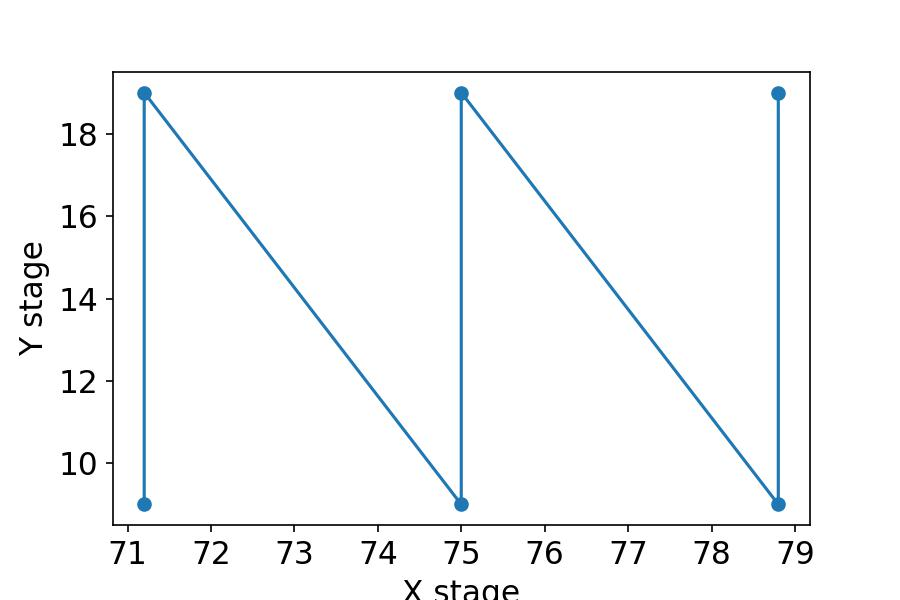
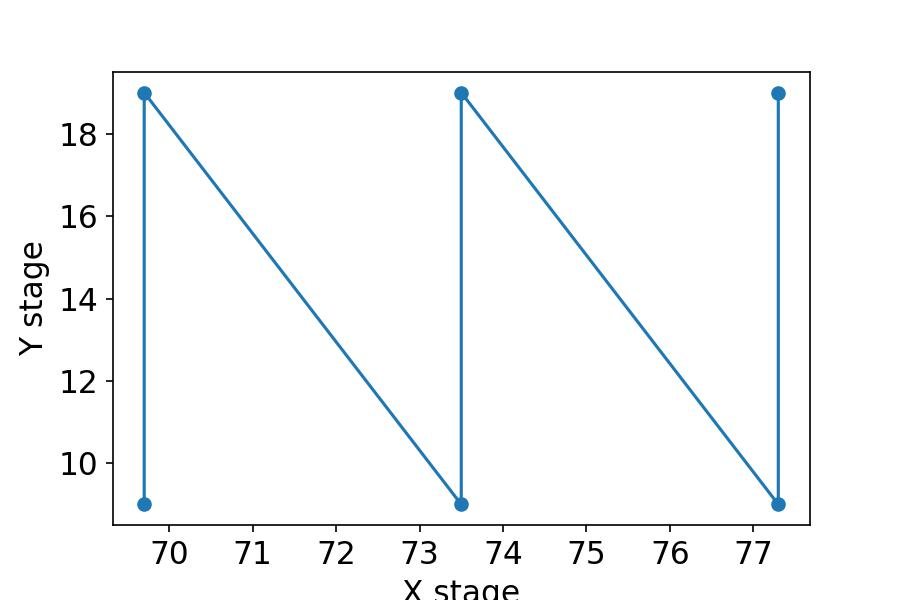
update on 9/13/2024

Changed region(s): [[0.1244, 0.9, 0.9022, 0.96]]

diff --git a/ThreadWeaver_ART.py b/ThreadWeaver_ART.py
@@ -1081,6 +1081,18 @@ class WeaverThread(QThread):
         # if interrupt == 'Stop':
         #     message = 'user stopped acquisition...'
         #     return message
+        
+        # go to start Y
+        self.ui.YPosition.setValue(self.ui.SliceY.value())
+        an_action = AODOAction('Ymove2')
+        self.AODOQueue.put(an_action)
+        self.StagebackQueue.get()
+        ##################################################
+        interrupt = self.check_interrupt()
+        if interrupt == 'Stop':
+            message = 'user stopped acquisition...'
+            return message
+        # ########################################################
         ########################################################
         # go to start X
         self.ui.XPosition.setValue(self.ui.SliceX.value())
@@ -1093,28 +1105,18 @@ class WeaverThread(QThread):
             message = 'user stopped acquisition...'
             return message
         ########################################################
-        # go to start Y
-        self.ui.YPosition.setValue(self.ui.SliceY.value())
-        an_action = AODOAction('Ymove2')
-        self.AODOQueue.put(an_action)
-        self.StagebackQueue.get()
-        ##################################################
-        interrupt = self.check_interrupt()
-        if interrupt == 'Stop':
-            message = 'user stopped acquisition...'
-            return message
-        ########################################################
-        # go to start Z
-        self.ui.ZPosition.setValue(start_height)
-        an_action = AODOAction('Zmove2')
-        self.AODOQueue.put(an_action)
-        self.StagebackQueue.get()
-        ##################################################
-        interrupt = self.check_interrupt()
-        if interrupt == 'Stop':
-            message = 'user stopped acquisition...'
-            return message
-        ########################################################
+        
+        # # go to start Z
+        # self.ui.ZPosition.setValue(start_height)
+        # an_action = AODOAction('Zmove2')
+        # self.AODOQueue.put(an_action)
+        # self.StagebackQueue.get()
+        # ##################################################
+        # interrupt = self.check_interrupt()
+        # if interrupt == 'Stop':
+        #     message = 'user stopped acquisition...'
+        #     return message
+        # ########################################################
         # slicing
         # start vibratome
         self.ui.VibEnabled.setText('Stop Vibratome')
@@ -1123,6 +1125,12 @@ class WeaverThread(QThread):
         self.AODOQueue.put(an_action)
         self.StagebackQueue.get()
         for ii in range(cuts):
+            # Z stage move up
+            self.ui.ZPosition.setValue(start_height+self.ui.SliceZDepth.value()/1000.0*ii)
+            an_action = AODOAction('Zmove2')
+            self.AODOQueue.put(an_action)
+            self.StagebackQueue.get()
+            # Move Y stage slowly to cut
             if self.ui.SliceDir.isChecked():
                 sign = 1
             else:
@@ -1145,7 +1153,7 @@ class WeaverThread(QThread):
                 self.AODOQueue.put(an_action)
                 self.StagebackQueue.get()
                 return message
-            
+            # move Y stage back to position
             self.ui.YPosition.setValue(self.ui.SliceY.value())
             an_action = AODOAction('Ymove2')
             self.AODOQueue.put(an_action)
@@ -1162,10 +1170,7 @@ class WeaverThread(QThread):
                 self.StagebackQueue.get()
                 return message
             
-            self.ui.ZPosition.setValue(self.ui.ZPosition.value()+self.ui.SliceZDepth.value()/1000.0)
-            an_action = AODOAction('Zmove2')
-            self.AODOQueue.put(an_action)
-            self.StagebackQueue.get()
+
 
         # stop vibratome
         self.ui.VibEnabled.setText('Start Vibratome')
@@ -1173,6 +1178,7 @@ class WeaverThread(QThread):
         an_action = AODOAction('stopVibratome')
         self.AODOQueue.put(an_action)
         self.StagebackQueue.get()
+        self.ui.SliceZStart.setValue(self.ui.ZPosition.value())
         return 'Slice success'
         
     def Gotozero(self):

diff --git a/ThreadAODO_150mm.py b/ThreadAODO_150mm.py
@@ -9,8 +9,12 @@ Created on Tue Dec 12 16:51:20 2023
 global STEPS
 STEPS = 25000
 # 2mm per revolve
-global DISTANCE
-DISTANCE = 2
+global XDISTANCE
+XDISTANCE = 2
+global YDISTANCE
+YDISTANCE = 2
+global ZDISTANCE
+ZDISTANCE = 1
 
 global Galvo_bias
 Galvo_bias = 3
@@ -329,7 +333,7 @@ class AODOThread(QThread):
                 AOtask.wait_until_done(timeout = 1)
                 AOtask.stop()
 
-    def stagewave_ramp(self, distance):
+    def stagewave_ramp(self, distance, DISTANCE):
         # generate stage movement that ramps up and down speed so that motor won't miss signal at beginning and end
         # how to do that: motor is driving by low->high digital transition
         # ramping up: make the interval between two highs with long time at the beginning, then gradually goes down.vice versa for ramping down
@@ -388,6 +392,7 @@ class AODOThread(QThread):
         # enable low enables, enable high disables
         if axis == 'X':
             line = XCH
+            DISTANCE = XDISTANCE
             speed = self.ui.XSpeed.value()
             pos = self.ui.XPosition.value()
             if pos>self.ui.Xmax.value()or pos<self.ui.Xmin.value():
@@ -406,6 +411,7 @@ class AODOThread(QThread):
             enable = 0#YDISABLE + ZDISABLE
         elif axis == 'Y':
             line = YCH
+            DISTANCE = YDISTANCE
             speed = self.ui.YSpeed.value()
             pos = self.ui.YPosition.value()
             if pos>self.ui.Ymax.value() or pos<self.ui.Ymin.value():
@@ -424,6 +430,7 @@ class AODOThread(QThread):
             enable = 0#XDISABLE + ZDISABLE
         elif axis == 'Z':
             line = ZCH
+            DISTANCE = ZDISTANCE
             speed = self.ui.ZSpeed.value()
             pos = self.ui.ZPosition.value()
             if pos>self.ui.Zmax.value() or pos<self.ui.Zmin.value():
@@ -456,7 +463,7 @@ class AODOThread(QThread):
                 stageEnabletask.stop()
                 time.sleep(0.1)
                 # configure DO task 
-                DOwaveform = self.stagewave_ramp(distance)
+                DOwaveform = self.stagewave_ramp(distance, DISTANCE)
                 DOwaveform = np.uint32(DOwaveform * line)
                 message = axis+' moving: '+str(round(np.sum(DOwaveform)/line/25000*DISTANCE*sign,3))+'mm'+' target pos: '+str(pos)
                 print(message)

diff --git a/ThreadDnS.py b/ThreadDnS.py
@@ -394,9 +394,7 @@ class DnSThread(QThread):
                     
                 if self.ui.Save.isChecked():
                     self.writeTiff(self.ui.DIR.toPlainText()+'/aip/vol'+str(self.sliceNum)+'/AIP.tif', AIP, mode)
-                if self.ui.Save.isChecked():
                     self.writeTiff(self.ui.DIR.toPlainText()+'/surf/vol'+str(self.sliceNum)+'/SURF.tif', surfProfile, mode)
-                if self.ui.Save.isChecked():
                     if self.ui.MUS.isChecked():
                         self.writeTiff(self.ui.DIR.toPlainText()+'/fitting/vol'+str(self.sliceNum)+'/MAX.tif', zmax, mode)
                 
